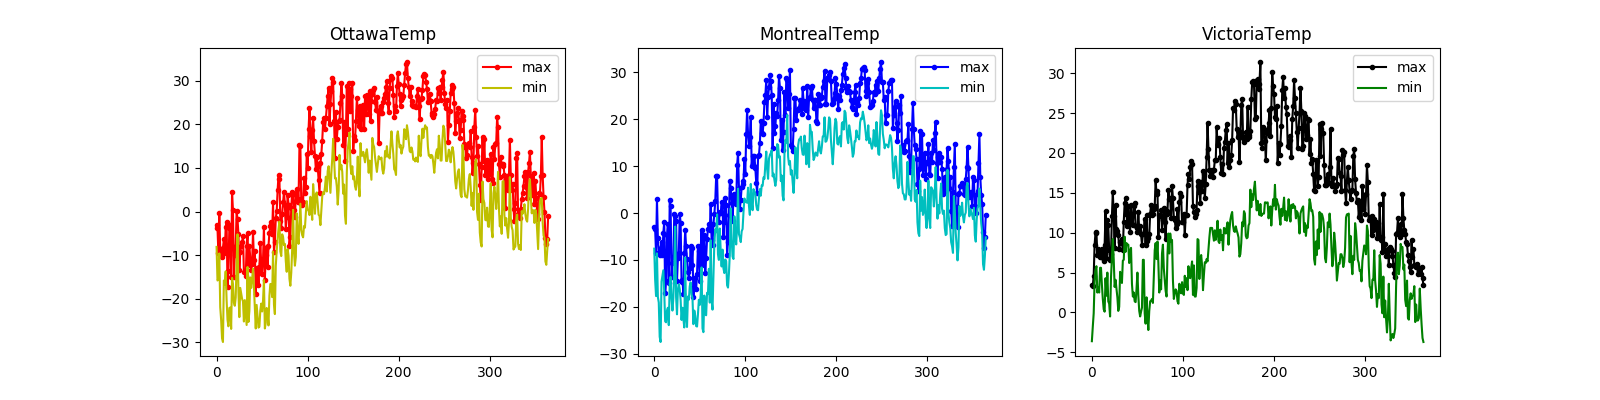
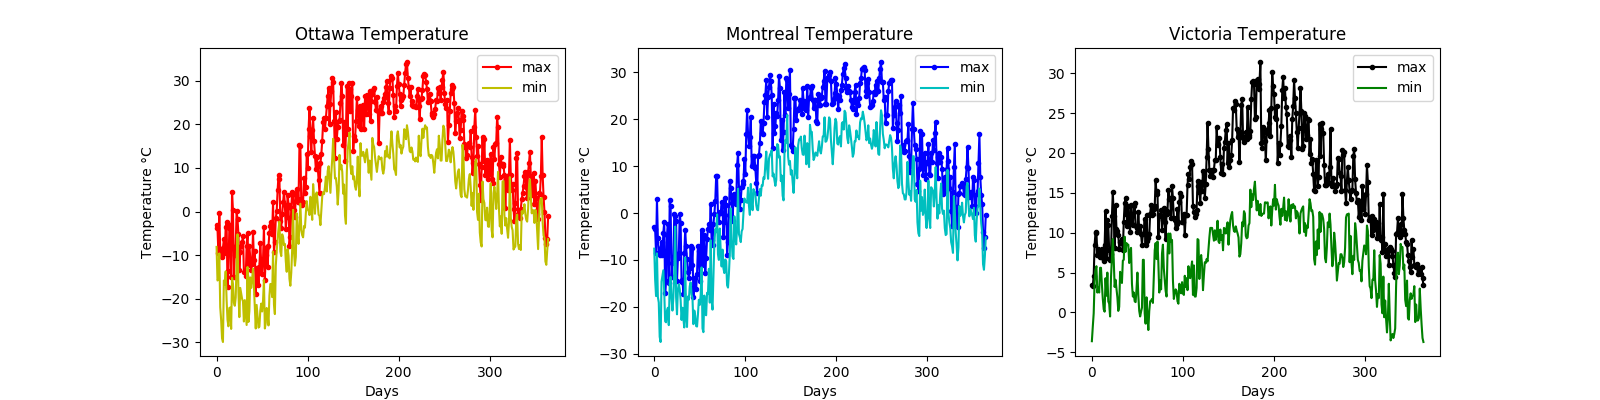
adding x/y labels for max/min temp

diff --git a/Temperature_plot.py b/Temperature_plot.py
@@ -29,7 +29,7 @@ plt.plot(days,min_temp2,'b-',label='Montrealmin')
 plt.plot(days,min_temp3,'k-',label='Victoriamin')
 plt.title('Three Cities Min Temp')
 plt.xlabel('Days')
-plt.ylabel('Temperature °C)
+plt.ylabel('Temperature °C')
 plt.legend()
 plt.savefig('Plots/CompareMaxMinTemp.png')
 
@@ -42,7 +42,7 @@ min_temp = data1['MinTemp']
 plt.plot(days,max_temp,'r.-',label='max')
 plt.plot(days,min_temp,'y-',label='min')
 plt.xlabel('Days')
-plt.ylabel('Temperature °C)
+plt.ylabel('Temperature °C')
 plt.legend()
 plt.title('Ottawa Temperature')
 
@@ -52,7 +52,7 @@ min_temp = data2['MinTemp']
 plt.plot(days,max_temp,'b.-',label='max')
 plt.plot(days,min_temp,'c-',label='min')
 plt.xlabel('Days')
-plt.ylabel('Temperature °C)
+plt.ylabel('Temperature °C')
 plt.legend()
 plt.title('Montreal Temperature')
 
@@ -62,7 +62,7 @@ min_temp = data3['MinTemp']
 plt.plot(days,max_temp,'k.-',label='max')
 plt.plot(days,min_temp,'g-',label='min')
 plt.xlabel('Days')
-plt.ylabel('Temperature °C)
+plt.ylabel('Temperature °C')
 plt.legend()
 plt.title('Victoria Temperature')
 plt.savefig('Plots/ThreeCitiesAnnualTemp.png')
